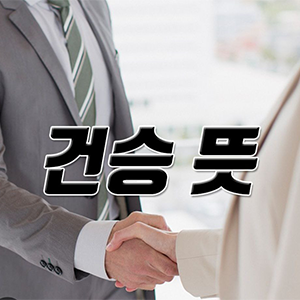
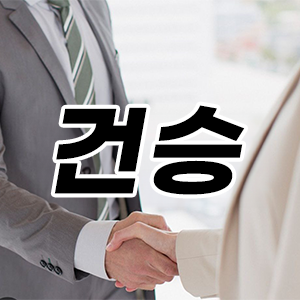
Add files via upload

Changed region(s): [[0.12, 0.33, 0.87, 0.69]]

diff --git a/index.html b/index.html
@@ -29,7 +29,7 @@
     <main>
         <section id="main-banner" class="container">
             <div class="main-banner section-content">
-                <img src="img/banner.png" alt="메인 배너 이미지" style="width: 300px; height: 300px;">
+                <img src="img/banner.png" alt="메인 배너 이미지" style="width: 400px;" class="main-banner-img">
                 <div class="text-content">
                     <h2>2024년 최고의 피망머니상</h2>
                     <p>피망머니상 이라는 것은 피망에서 즐길 수 있는 게임에 필요한 게임머니를 제공해 드리고 이에 맞게 거래를 진행하는 것을 피망머니상 이라고 합니다. 기본적으로 머니에 대한 시세는 상시 변화하고 있으며 안전한 머니상을 찾아서 거래를 진행하시는 것이 장기적으로 보셨을때 지급받은 머니에 대한 문제가 생기지 않고 오랜시간동안 게임을 문제없이 즐기는 것이 가능합니다. 최근 들어서 잘못된 방식의 머니상들이 늘어가고 있는데 이러한 부분을 조심하면서 거래를 진행하시는 것을 권장드립니다.</p>
@@ -46,28 +46,28 @@
         <section id="content" class="container">
             <div class="content">
                 <section class="section-content">
-                    <img src="img/one.png" alt="피망포커 머니상" style="width: 300px; height: 300px;">
+                    <img src="img/1.jpeg" alt="피망포커 머니상" style="width: 600px; height: 300px;">
                     <div class="text-content">
                         <h3>최강연합머니상이란</h3>
                         <p>피망포커와 관련된 거래를 진행하는 머니상을 피망포커 머니상이라고 합니다. 이러한 피망포커와 관련된 머니를 고객분들에게 제공해드리고 있으니 언제든지 24시간안에 연락을 주시면 친절히 상담 이후 관련 거래를 진행해 드리도록 하겠습니다.</p>
                     </div>
                 </section>
                 <section class="section-content">
-                    <img src="img/two.png" alt="피망포커 거래방법" style="width: 300px; height: 300px;">
+                    <img src="img/2.jpeg" alt="피망포커 거래방법" style="width: 600px; height: 300px;">
                     <div class="text-content">
                         <h3>피망포커머니 거래방법</h3>
                         <p>피망포커머니 거래방법에 대한 것을 어느정도 알고 있으시는 것이 도움이 됩니다. 우선 여러분들이 저희 쪽으로 연락을 주시면 담당자와 상담이 진행되고 이를 바탕으로 현재 머니에 대한 시세를 전달 드립니다. 각각의 게임머니는 저희가 보유하고 있는 수량들이 정해져 있기 때문에 이와 관련된 정보를 전달 받으신 다음 결정하시면 저희가 확인 후 머니를 전달드리고 있다고 보시면 됩니다.</p>
                     </div>
                 </section>
                 <section class="section-content">
-                    <img src="img/three.png" alt="피망포커 머니상" style="width: 300px; height: 300px;">
+                    <img src="img/3.jpeg" alt="피망포커 머니상" style="width: 600px; height: 300px;">
                     <div class="text-content">
                         <h3>피망머니 시세</h3>
                         <p>피망머니시세에 대해서 궁금해 하시는 분들이 많이 있습니다. 이는 전체적인 피망게임에 대한 시세라고 보시면 되며 업체에 따라서 평균값을 제시하는 곳들이 많이 있습니다. 이러한 시세는 실시간으로 확인을 진행하고 있으며 시세가 변화함에 따라서 저희가 알려드리는 시세 또한 달라질 수 있다는 것을 인지해 주시길 바랍니다. 항상 시세에 맞게 거래를 진행하고 있기 때문에 이러한 부분들은 꼭 확인을 해주시고 나서 진행하시는 것을 추천 드립니다.</p>
                     </div>
                 </section>
                 <section class="section-content">
-                    <img src="img/four.png" alt="피망포커 머니상" style="width: 300px; height: 300px;">
+                    <img src="img/5.png" alt="피망포커 머니상" style="width: 600px; height: 300px;">
                     <div class="text-content">
                         <h3>피망뉴맞고 머니 시세</h3>
                         <p>피망 뉴 맞고 관련 머니에 관심이 있으신 분들은 피망뉴맞고 머니 시세에 대해서 질문을 주시는 경우가 많습니다. 저희 측으로 여러분들이 궁금해 하시는 피망뉴맞고 머니 시세에 대한 질문을 주시면 실시간으로 관련 시세를 확인한 후 여러분들에게 알려드리고 있다보니 다양한 업체를 통해서 시세를 미리 확인하신 다음 가장 알맞은 방법으로 소통을 진행하고 친절하게 상담을 하는 업체를 고르시길 바랍니다. 또한, 다른 업체들 보다 과도하게 시세가 저렴한 업체를 발견 하신다면 해당 업체와의 거래는 지속하지 않으시는 것이 더 알맞다고 이야기 드릴 수 있습니다.</p>
@@ -100,12 +100,21 @@
                 <a href="https://telegram.me/P77281555" class="button button-telegram">텔레그램 소통방 입장</a>
                 <a href="kakao://Pmangmoney" class="button button-kakao">카카오톡: Pmangmoney</a>
             </div>
-
         </section>
 
-        <section class="map container">
-            <p>주소: 서울시 서초구 양재동</p>
-            <iframe src="https://www.google.com/maps/embed?pb=!1m18!1m12!1m3!1d50660.90972221448!2d126.99656890089739!3d37.477084513569494!2m3!1f0!2f0!3f0!3m2!1i1024!2i768!4f13.1!3m3!1m2!1s0x357ca13466bcacd1%3A0xb70bc7ff482af6ab!2z7ISc7Jq47Yq567OE7IucIOyEnOy0iOq1rA!5e0!3m2!1sko!2skr!4v1716389523572!5m2!1sko!2skr" width="100%" height="450" style="border:0;" allowfullscreen="" loading="lazy" referrerpolicy="no-referrer-when-downgrade"></iframe>
+        <section class="images container">
+            <div class="image-box">
+                <img src="img/f1.jpeg" alt="이미지 1">
+            </div>
+            <div class="image-box">
+                <img src="img/f2.jpeg" alt="이미지 2">
+            </div>
+            <div class="image-box">
+                <img src="img/f3.jpeg" alt="이미지 3">
+            </div>
+            <div class="image-box">
+                <img src="img/f4.jpeg" alt="이미지 4">
+            </div>
         </section>
     </main>
 

diff --git a/styles.css b/styles.css
@@ -1,10 +1,13 @@
 /* 전체 페이지 스타일 */
 body {
     font-family: Arial, sans-serif;
-    background-color: #fff;
+    background-color: #FFEBEE; /* 기본 배경색 */
     color: #333;
     margin: 0;
     padding: 0;
+    box-sizing: border-box;
+    background-image: url('img/flowers-pattern.png'); /* 배경 이미지 추가 */
+    background-repeat: repeat; /* 이미지 반복 설정 */
 }
 
 /* 헤더 스타일 */
@@ -12,7 +15,7 @@ body {
     display: flex;
     flex-direction: column; /* 수직 방향 정렬 */
     align-items: center; /* 중앙 정렬 */
-    background-color: #fff;
+    background-color: transparent; /* 배경색 투명으로 변경 */
     color: #333;
     padding: 10px;
     box-shadow: 0 2px 5px rgba(0, 0, 0, 0.1);
@@ -83,27 +86,28 @@ body {
     width: 90%;
     max-width: 1200px;
     margin: 20px auto;
-    text-align: left; /* 기본 좌측 정렬 */
-}
-
-/* 화면 너비가 768px 이하일 때 컨테이너 중앙 정렬 */
-@media screen and (max-width: 768px) {
-    .container {
-        text-align: center; /* 중앙 정렬 */
-    }
+    text-align: center; /* 중앙 정렬 */
+    background-color: rgba(255, 255, 255, 0.8); /* 배경에 투명도 추가 */
+    border-radius: 10px; /* 모서리 둥글게 */
+    padding: 20px; /* 내부 여백 추가 */
 }
 
 /* 메인 배너 스타일 */
 .main-banner {
-    background-color: #fff;
+    background-color: transparent; /* 투명 배경 */
     padding: 20px;
     text-align: center;
+    border: 1px solid #ccc; /* 박스 테두리 추가 */
+    box-shadow: 0 4px 8px rgba(0, 0, 0, 0.1); /* 3D 효과 추가 */
+    border-radius: 10px; /* 모서리 둥글게 */
+    margin-bottom: 20px; /* 아래 간격 추가 */
 }
 
 /* 메인 배너 이미지 스타일 */
-.main-banner img {
-    width: 100%;
-    max-width: 1200px;
+.main-banner-img {
+    width: auto;
+    height: auto;
+    max-width: 100%;
 }
 
 /* 메인 배너 제목 스타일 */
@@ -150,6 +154,7 @@ body {
     font-size: 18px;
     text-decoration: none;
     color: white;
+    border-radius: 5px; /* 모서리 둥글게 */
 }
 
 /* 텔레그램 버튼 스타일 */
@@ -174,16 +179,21 @@ body {
     flex-direction: column;
     align-items: center;
     margin: 20px 0;
-    background-color: #fff;
+    background-color: rgba(255, 255, 255, 0.8); /* 배경에 투명도 추가 */
     padding: 20px;
     text-align: left;
     justify-content: center;
+    border: 1px solid #ccc; /* 박스 테두리 추가 */
+    box-shadow: 0 4px 8px rgba(0, 0, 0, 0.1); /* 3D 효과 추가 */
+    border-radius: 10px; /* 모서리 둥글게 */
+    margin-bottom: 20px; /* 아래 간격 추가 */
 }
 
 /* 섹션 콘텐츠 이미지 스타일 */
 .section-content img {
     width: 100%;
-    max-width: 300px;
+    max-width: 600px;
+    height: auto;
     margin-bottom: 20px;
 }
 
@@ -220,7 +230,7 @@ body {
     /* PC 버전에서의 섹션 콘텐츠 이미지 스타일 */
     .section-content img {
         width: 48%;
-        max-width: 300px;
+        max-width: 600px;
         margin-bottom: 0;
         margin-right: 20px;
     }
@@ -240,12 +250,16 @@ body {
     justify-content: center;
     align-items: center;
     margin: 20px 0;
-    background-color: #fff;
+    background-color: rgba(255, 255, 255, 0.8); /* 배경에 투명도 추가 */
     padding: 20px;
     text-align: center;
     max-width: 1200px;
     margin-left: auto;
     margin-right: auto;
+    border: 1px solid #ccc; /* 박스 테두리 추가 */
+    box-shadow: 0 4px 8px rgba(0, 0, 0, 0.1); /* 3D 효과 추가 */
+    border-radius: 10px; /* 모서리 둥글게 */
+    margin-bottom: 20px; /* 아래 간격 추가 */
 }
 
 /* 연락처 정보 박스 스타일 */
@@ -259,6 +273,9 @@ body {
     flex-direction: column;
     align-items: center;
     box-sizing: border-box;
+    border: 1px solid #ccc; /* 박스 테두리 추가 */
+    box-shadow: 0 4px 8px rgba(0, 0, 0, 0.1); /* 3D 효과 추가 */
+    border-radius: 10px; /* 모서리 둥글게 */
 }
 
 /* 연락처 정보 박스 제목 스타일 추가 */
@@ -287,17 +304,58 @@ body {
     line-height: 1.5;
 }
 
-/* 지도 스타일 */
-.map {
+/* 이미지 박스 스타일 */
+.images {
+    display: flex;
+    flex-wrap: wrap;
+    justify-content: center;
+    align-items: center;
+    margin: 20px 0;
+    max-width: 1200px;
+    margin-left: auto;
+    margin-right: auto;
+    padding: 10px; /* 이미지들이 잘리지 않도록 패딩 추가 */
+    box-sizing: border-box; /* 패딩을 포함한 박스 크기 설정 */
+}
+
+.images .image-box {
+    background-color: white;
+    padding: 20px;
     text-align: center;
-    margin: 20px auto;
+    width: calc(25% - 20px);
+    margin: 10px;
+    display: flex;
+    flex-direction: column;
+    align-items: center;
+    box-sizing: border-box;
+    border: 1px solid #ccc; /* 박스 테두리 추가 */
+    box-shadow: 0 4px 8px rgba(0, 0, 0, 0.1); /* 3D 효과 추가 */
+    border-radius: 10px; /* 모서리 둥글게 */
+}
+
+.images .image-box img {
+    width: 100%;
+    height: auto;
+    aspect-ratio: 1; /* 정사각형 비율 */
+    object-fit: cover;
+}
+
+/* 모바일 반응형 스타일 */
+@media screen and (max-width: 768px) {
+    .images .image-box {
+        width: 100%;
+        margin: 10px 0;
+    }
 }
 
 /* 푸터 스타일 */
 .footer {
-    background-color: #fff;
+    background-color: transparent; /* 배경색 투명으로 변경 */
     color: #333;
     text-align: center;
     padding: 10px 0;
     font-size: 14px;
+    border: 1px solid #ccc; /* 박스 테두리 추가 */
+    box-shadow: 0 4px 8px rgba(0, 0, 0, 0.1); /* 3D 효과 추가 */
+    border-radius: 10px; /* 모서리 둥글게 */
 }
